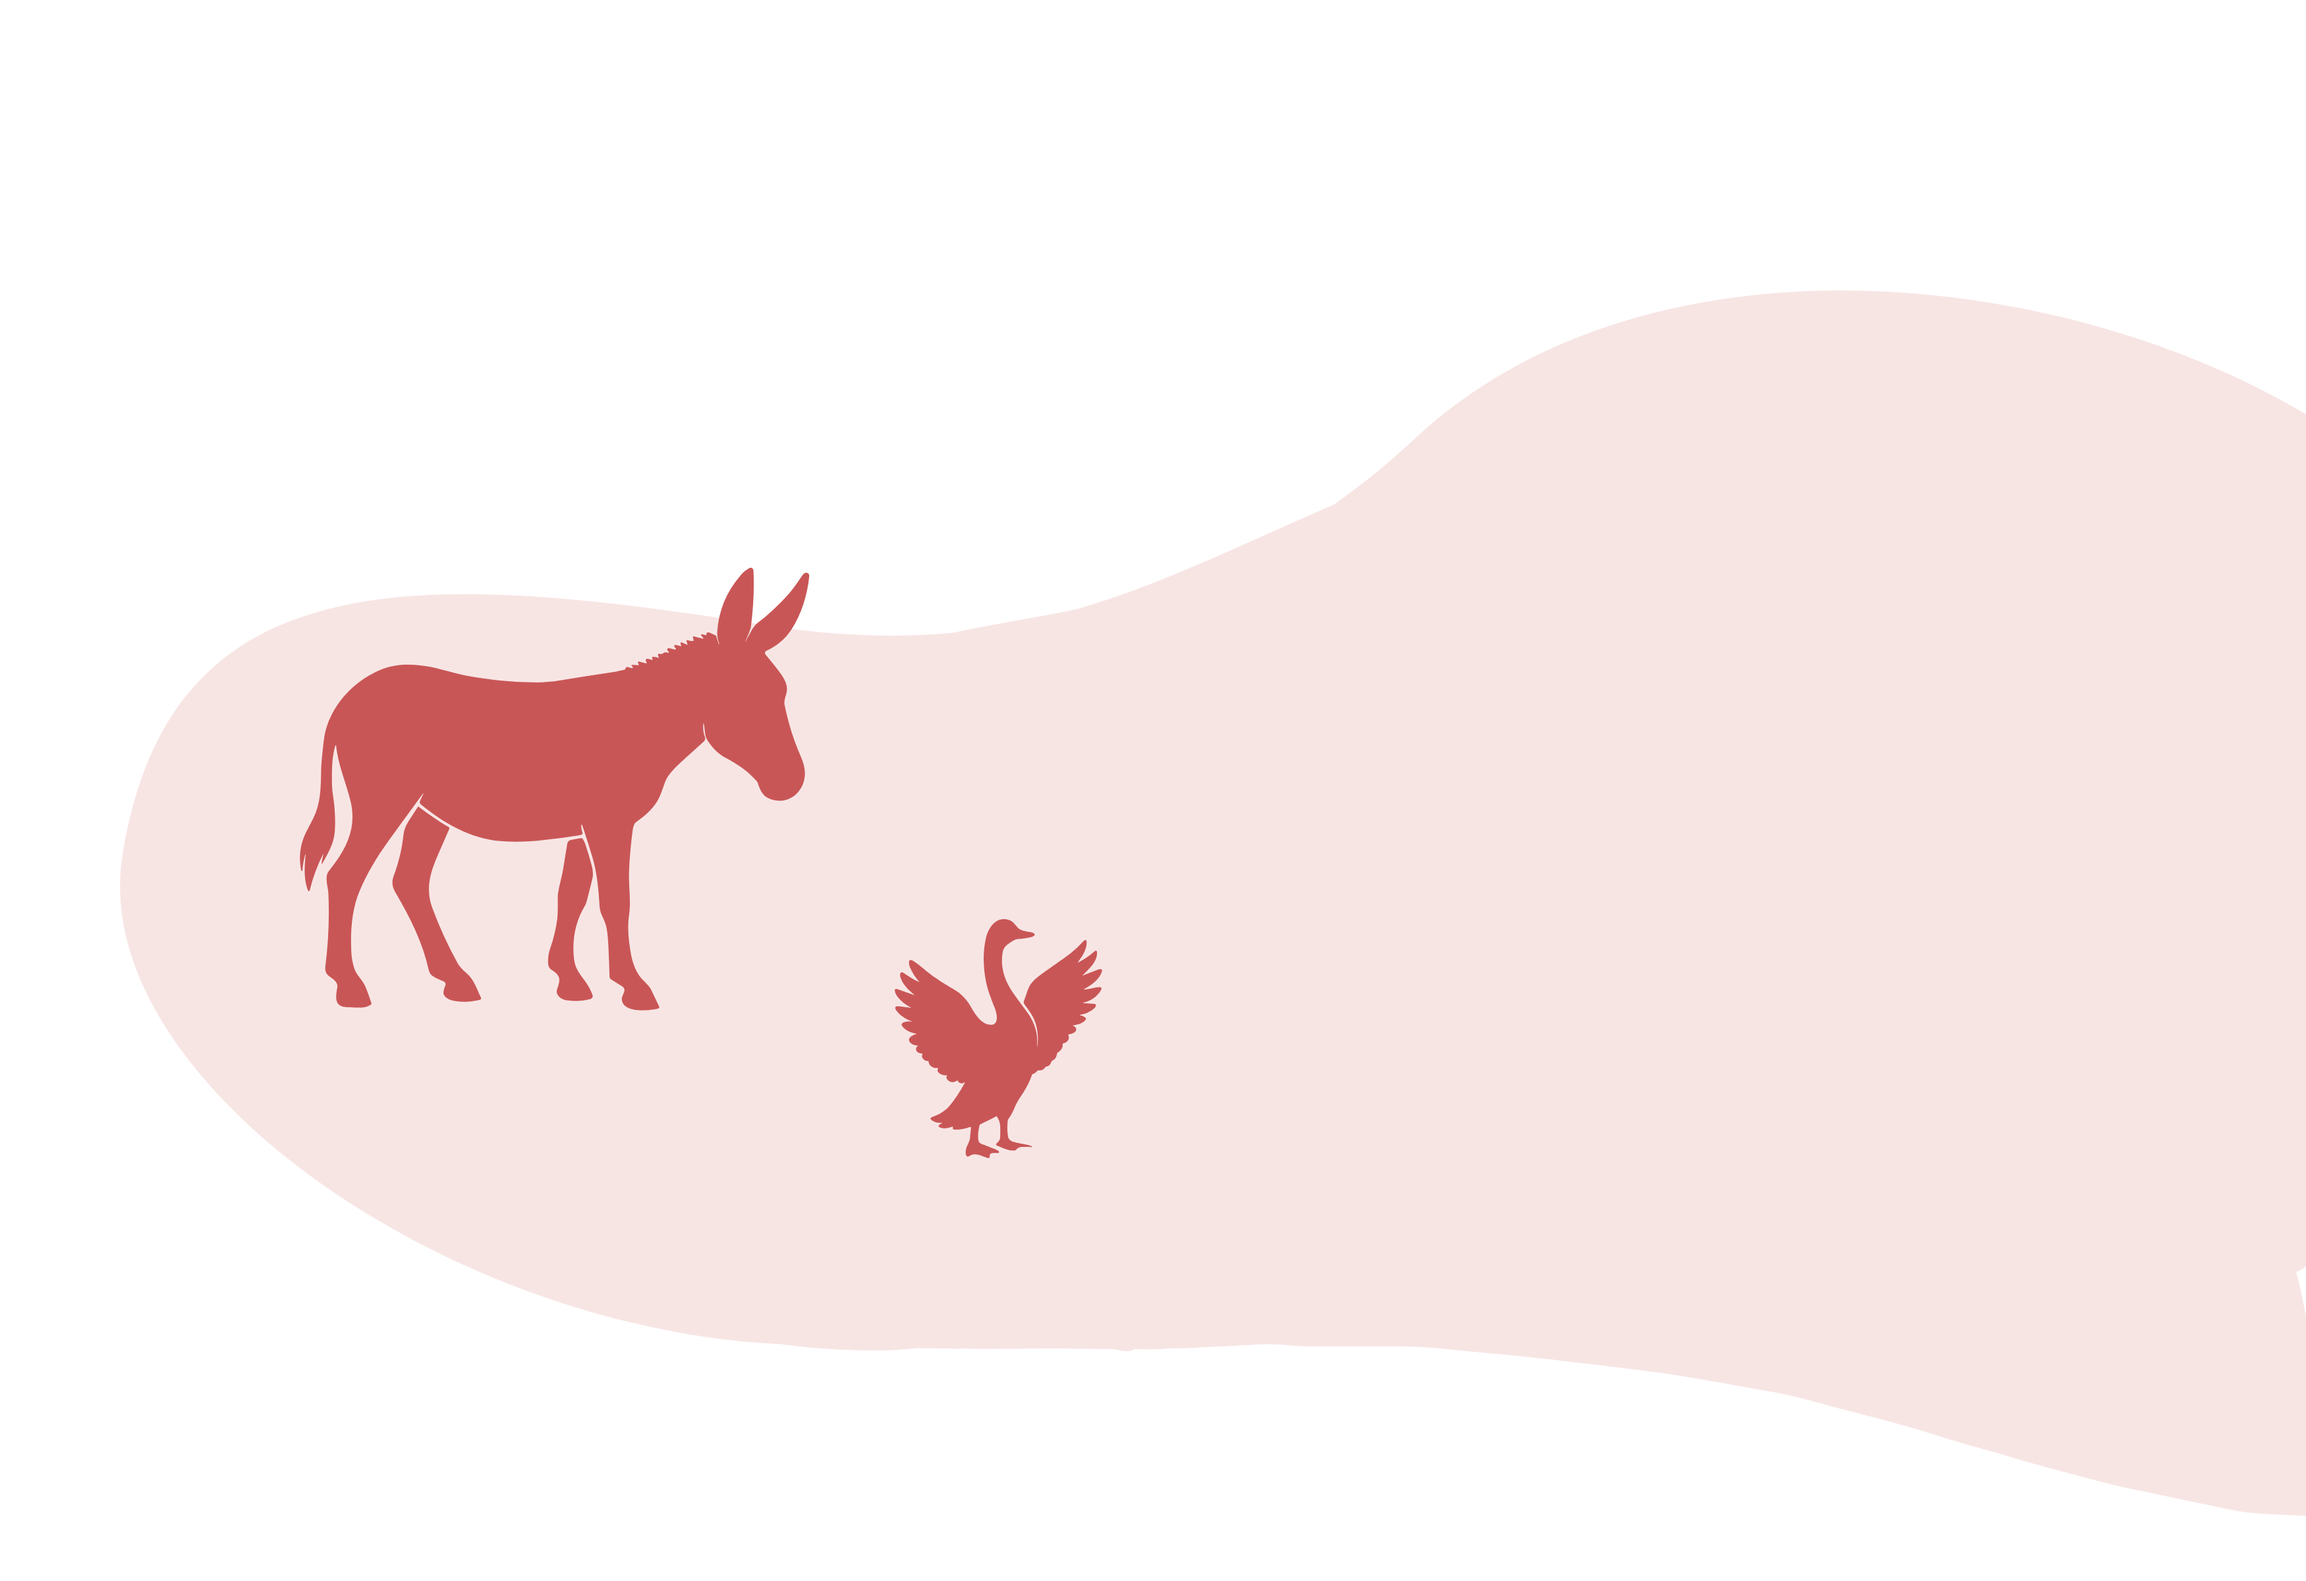
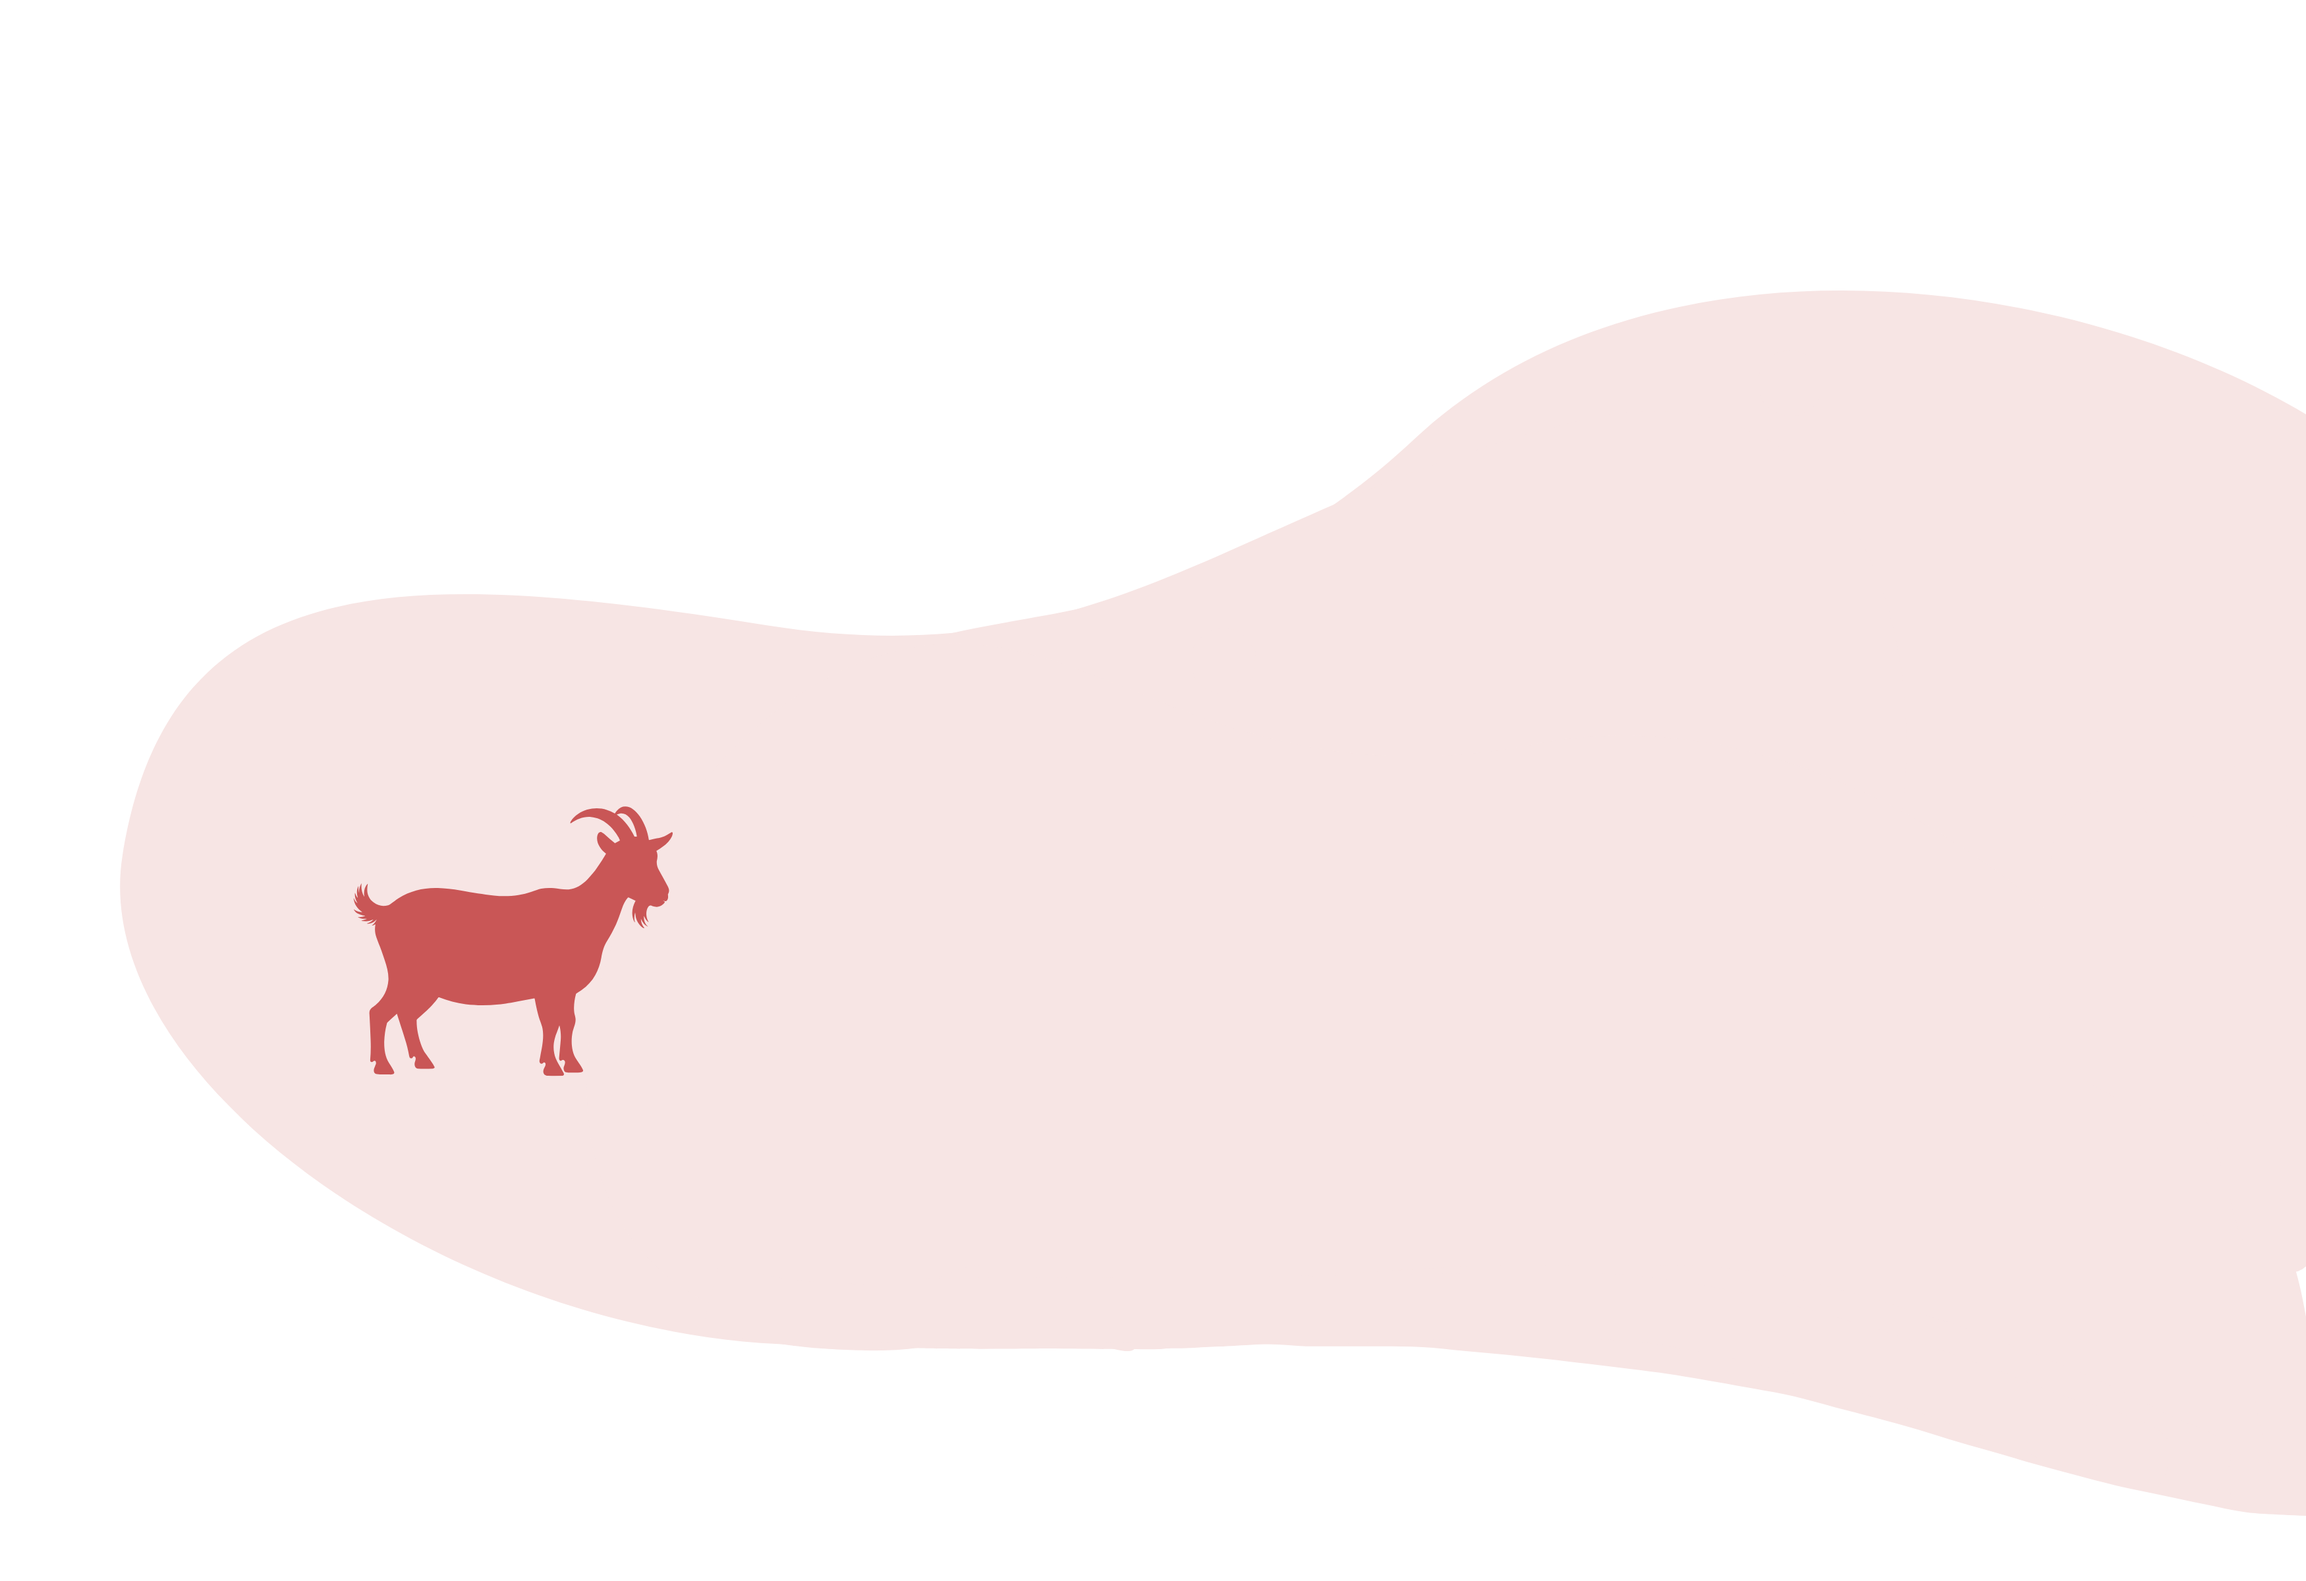
Story arrows, numbered flow steps, hero rabbit and horse
Playful #f3a90a arrows hop between the story graphics: animals down to
records, records back down to export (mirrored), and export on to Ready
to Share. Desktop only.

The updated landing blob comes in, with the rabbit at its bottom left
and the horse to the rabbit's right. The duck replaces the goat above
the export story, and the llama grows to 470px.

The how-it-works flow becomes four numbered steps - gold digits ahead
of "Add animals / Log records / Filter records / Export files" beneath
their icons, sized to match the Why LivestockBook tiles (which grow to
420px). On phones the steps fold to a 2x2 grid without arrows.

Changed region(s): [[0.1246, 0.3438, 0.3737, 0.6875], [0.3737, 0.5938, 0.4983, 0.75]]

diff --git a/docs/index.html b/docs/index.html
@@ -13,7 +13,7 @@
   <link rel="icon" type="image/png" sizes="96x96" href="./favicon-96x96.png?v=20260724" />
   <link rel="icon" type="image/png" sizes="192x192" href="./favicon-192x192.png?v=20260724" />
   <link rel="apple-touch-icon" sizes="180x180" href="./apple-touch-icon.png?v=20260724" />
-  <link rel="stylesheet" href="./styles.css?v=20260819u" />
+  <link rel="stylesheet" href="./styles.css?v=20260819w" />
 </head>
 <body>
   <header class="site-header">
@@ -47,8 +47,10 @@
       </div>
 
       <figure class="hero-usp">
-        <img src="./images/landing-page.png?v=2" alt="" aria-hidden="true" loading="eager" />
+        <img src="./images/landing-page.png?v=3" alt="" aria-hidden="true" loading="eager" />
         <img class="hero-phone" src="./images/landing-phone.png?v=3" alt="Animals screen in LivestockBook" loading="eager" />
+        <img class="hero-animal hero-animal-rabbit" src="./images/rabbit.png" alt="" aria-hidden="true" loading="lazy" />
+        <img class="hero-animal hero-animal-horse" src="./images/horse.png" alt="" aria-hidden="true" loading="lazy" />
       </figure>
     </section>
 
@@ -59,20 +61,30 @@
         <h2>How it works</h2>
         <p>A simple workflow from record entry to ready-to-share exports.</p>
       </div>
-      <div class="how-flow" aria-label="Add animals, add records, filter records, export records">
-        <img src="./images/how-add-animals.png?v=3" alt="Add animals" />
-        <span class="flow-arrow" aria-hidden="true"><svg viewBox="0 0 48 24"><path d="M3 12h38m0 0l-9-8m9 8l-9 8" fill="none" stroke="#f4aa08" stroke-width="4.5" stroke-linecap="round" stroke-linejoin="round"/></svg></span>
-        <img src="./images/how-add-records.png?v=3" alt="Add records" />
-        <span class="flow-arrow" aria-hidden="true"><svg viewBox="0 0 48 24"><path d="M3 12h38m0 0l-9-8m9 8l-9 8" fill="none" stroke="#f4aa08" stroke-width="4.5" stroke-linecap="round" stroke-linejoin="round"/></svg></span>
-        <img src="./images/how-filter-records.png?v=3" alt="Filter records" />
-        <span class="flow-arrow" aria-hidden="true"><svg viewBox="0 0 48 24"><path d="M3 12h38m0 0l-9-8m9 8l-9 8" fill="none" stroke="#f4aa08" stroke-width="4.5" stroke-linecap="round" stroke-linejoin="round"/></svg></span>
-        <img src="./images/how-export-records.png?v=3" alt="Export records" />
+      <div class="how-flow" aria-label="1 Add animals, 2 Log records, 3 Filter records, 4 Export files">
+        <div class="flow-step">
+          <img src="./images/how-add-animals.png?v=3" alt="" aria-hidden="true" />
+          <span class="flow-label"><span class="flow-num">1</span>Add animals</span>
+        </div>
+        <span class="flow-arrow" aria-hidden="true"><svg viewBox="0 0 48 24"><path d="M3 12h38m0 0l-9-8m9 8l-9 8" fill="none" stroke="#f3a90a" stroke-width="4.5" stroke-linecap="round" stroke-linejoin="round"/></svg></span>
+        <div class="flow-step">
+          <img src="./images/how-add-records.png?v=3" alt="" aria-hidden="true" />
+          <span class="flow-label"><span class="flow-num">2</span>Log records</span>
+        </div>
+        <span class="flow-arrow" aria-hidden="true"><svg viewBox="0 0 48 24"><path d="M3 12h38m0 0l-9-8m9 8l-9 8" fill="none" stroke="#f3a90a" stroke-width="4.5" stroke-linecap="round" stroke-linejoin="round"/></svg></span>
+        <div class="flow-step">
+          <img src="./images/how-filter-records.png?v=3" alt="" aria-hidden="true" />
+          <span class="flow-label"><span class="flow-num">3</span>Filter records</span>
+        </div>
+        <span class="flow-arrow" aria-hidden="true"><svg viewBox="0 0 48 24"><path d="M3 12h38m0 0l-9-8m9 8l-9 8" fill="none" stroke="#f3a90a" stroke-width="4.5" stroke-linecap="round" stroke-linejoin="round"/></svg></span>
+        <div class="flow-step">
+          <img src="./images/how-export-records.png?v=3" alt="" aria-hidden="true" />
+          <span class="flow-label"><span class="flow-num">4</span>Export files</span>
+        </div>
       </div>
-      <p class="how-flow-caption">Add animals → Log records → Filter records → Export files</p>
     </section>
 
     <section class="section-intro why-intro">
-      <img class="intro-rabbit" src="./images/rabbit.png" alt="" aria-hidden="true" loading="lazy" />
       <h2>Why LivestockBook?</h2>
       <p>Spend less time managing paperwork and more time running your farm.</p>
     </section>
@@ -112,6 +124,7 @@
         </article>
 
         <article class="feature-story reverse feature-story-graphic">
+          <span class="story-arrow story-arrow-1" aria-hidden="true"><svg viewBox="0 0 200 120"><path d="M14 16 C 60 96, 128 92, 182 40" fill="none" stroke="#f3a90a" stroke-width="9" stroke-linecap="round"/><path d="M182 40l-26 2m26-2l-10 24" fill="none" stroke="#f3a90a" stroke-width="9" stroke-linecap="round" stroke-linejoin="round"/></svg></span>
           <div class="feature-story-copy">
             <p class="eyebrow">Records</p>
             <h2>Keep track of<br />livestock activity.</h2>
@@ -124,9 +137,10 @@
         </article>
 
         <article class="feature-story feature-story-graphic">
+          <span class="story-arrow story-arrow-2" aria-hidden="true"><svg viewBox="0 0 200 120"><path d="M14 16 C 60 96, 128 92, 182 40" fill="none" stroke="#f3a90a" stroke-width="9" stroke-linecap="round"/><path d="M182 40l-26 2m26-2l-10 24" fill="none" stroke="#f3a90a" stroke-width="9" stroke-linecap="round" stroke-linejoin="round"/></svg></span>
           <figure class="feature-shot feature-story-screen">
             <img class="feature-screen-image" src="./images/graphic-export.png?v=2" alt="Export screens in LivestockBook" loading="lazy" />
-            <img class="story-accent" src="./images/goat.png" alt="" aria-hidden="true" loading="lazy" />
+            <img class="story-accent" src="./images/duck.png" alt="" aria-hidden="true" loading="lazy" />
           </figure>
           <div class="feature-story-copy">
             <p class="eyebrow">Export</p>
@@ -136,6 +150,7 @@
         </article>
 
         <article class="feature-story reverse feature-story-graphic">
+          <span class="story-arrow story-arrow-3" aria-hidden="true"><svg viewBox="0 0 200 120"><path d="M14 16 C 60 96, 128 92, 182 40" fill="none" stroke="#f3a90a" stroke-width="9" stroke-linecap="round"/><path d="M182 40l-26 2m26-2l-10 24" fill="none" stroke="#f3a90a" stroke-width="9" stroke-linecap="round" stroke-linejoin="round"/></svg></span>
           <div class="feature-story-copy">
             <p class="eyebrow">Ready to Share</p>
             <h2>Clean, branded<br />and audit-ready.</h2>

diff --git a/docs/styles.css b/docs/styles.css
@@ -260,7 +260,7 @@ h2,
   display: grid;
   grid-template-columns: repeat(4, 1fr);
   gap: 16px;
-  width: min(1100px, calc(100% - 48px));
+  width: min(1264px, calc(100% - 32px));
 }
 
 .benefits-row li {
@@ -276,7 +276,7 @@ h2,
 }
 
 .benefit-tile {
-  width: min(380px, 100%);
+  width: min(420px, 100%);
   height: auto;
   display: block;
 }
@@ -361,21 +361,21 @@ h2,
   pointer-events: none;
 }
 
-.hero-animal-left {
-  left: 4%;
-  bottom: 4%;
-  width: 26%;
+.hero-animal-rabbit {
+  left: 6%;
+  bottom: -4%;
+  width: 15%;
 }
 
-.hero-animal-right {
-  right: 2%;
-  bottom: 2%;
-  width: 18%;
+.hero-animal-horse {
+  left: 17%;
+  bottom: -5%;
+  width: 22%;
 }
 
 .section-intro.how-it-works {
   padding-bottom: 46px;
-  width: min(var(--content-frame-width), calc(100% - 48px));
+  width: min(1264px, calc(100% - 32px));
   text-align: center;
 }
 
@@ -393,11 +393,34 @@ h2,
   margin-top: 6px;
 }
 
+.flow-step {
+  display: flex;
+  flex-direction: column;
+  align-items: center;
+}
+
 .how-flow img {
-  width: clamp(120px, 16vw, 210px);
+  width: clamp(140px, 20vw, 260px);
   height: auto;
   display: block;
   margin: 0;
+}
+
+.flow-label {
+  display: inline-flex;
+  align-items: center;
+  gap: 9px;
+  color: #000000;
+  font-size: 1.18rem;
+  font-weight: 600;
+  /* The icon canvases carry padding; pull the label up toward the artwork. */
+  margin-top: -30px;
+}
+
+.flow-num {
+  color: #f3a90a;
+  font-size: 1.5rem;
+  font-weight: 800;
 }
 
 .how-flow {
@@ -408,6 +431,7 @@ h2,
   display: inline-flex;
   flex: 0 0 auto;
   width: clamp(30px, 4vw, 52px);
+  margin-top: -46px;
 }
 
 .flow-arrow svg {
@@ -415,32 +439,10 @@ h2,
   height: auto;
 }
 
-.how-flow-caption {
-  margin: 16px 0 0;
-  color: #000000;
-  font-size: 1.05rem;
-  line-height: 1.6;
-  text-align: center;
-}
 
 .why-intro {
   position: relative;
   margin-top: 56px;
-}
-
-.intro-rabbit {
-  display: none;
-}
-
-@media (min-width: 901px) {
-  .intro-rabbit {
-    display: block;
-    /* The canvas is mostly transparent margin around the silhouette. */
-    width: 340px;
-    height: auto;
-    margin: -70px 0 -80px -70px;
-    pointer-events: none;
-  }
 }
 
 .section-intro {
@@ -518,7 +520,7 @@ h2,
 
   .reports-accent {
     display: block;
-    width: 400px;
+    width: 470px;
     height: auto;
     /* The canvas is mostly transparent margin; pull the flow in around it. */
     margin: -10px auto -70px;
@@ -812,6 +814,49 @@ h2,
 
 .feature-story-graphic .feature-story-screen {
   width: 100%;
+}
+
+/* Playful arrows hopping between the story graphics. Desktop only. */
+.story-arrow {
+  display: none;
+}
+
+@media (min-width: 901px) {
+  .story-arrow {
+    display: block;
+    position: absolute;
+    width: 190px;
+    pointer-events: none;
+    z-index: 3;
+  }
+
+  .story-arrow svg {
+    width: 100%;
+    height: auto;
+  }
+
+  .feature-story {
+    position: relative;
+  }
+
+  /* Animals (left) down to records (right). */
+  .story-arrow-1 {
+    left: 44%;
+    top: 40px;
+  }
+
+  /* Records (right) down to export (left): mirrored. */
+  .story-arrow-2 {
+    left: 38%;
+    top: 150px;
+    transform: scaleX(-1);
+  }
+
+  /* Export (left) down to Ready to Share (right). */
+  .story-arrow-3 {
+    left: 44%;
+    top: 30px;
+  }
 }
 
 /* Small silhouette accents tucked under the story graphics. Absolutely
@@ -1587,6 +1632,20 @@ h2,
     flex: 0 0 42px;
     width: 42px;
     height: 42px;
+  }
+
+  /* Flow steps fold to a 2x2 grid; the connecting arrows come out. */
+  .how-flow {
+    flex-wrap: wrap;
+    row-gap: 10px;
+  }
+
+  .flow-step {
+    flex: 0 0 50%;
+  }
+
+  .flow-arrow {
+    display: none;
   }
 
   .faq-section {
